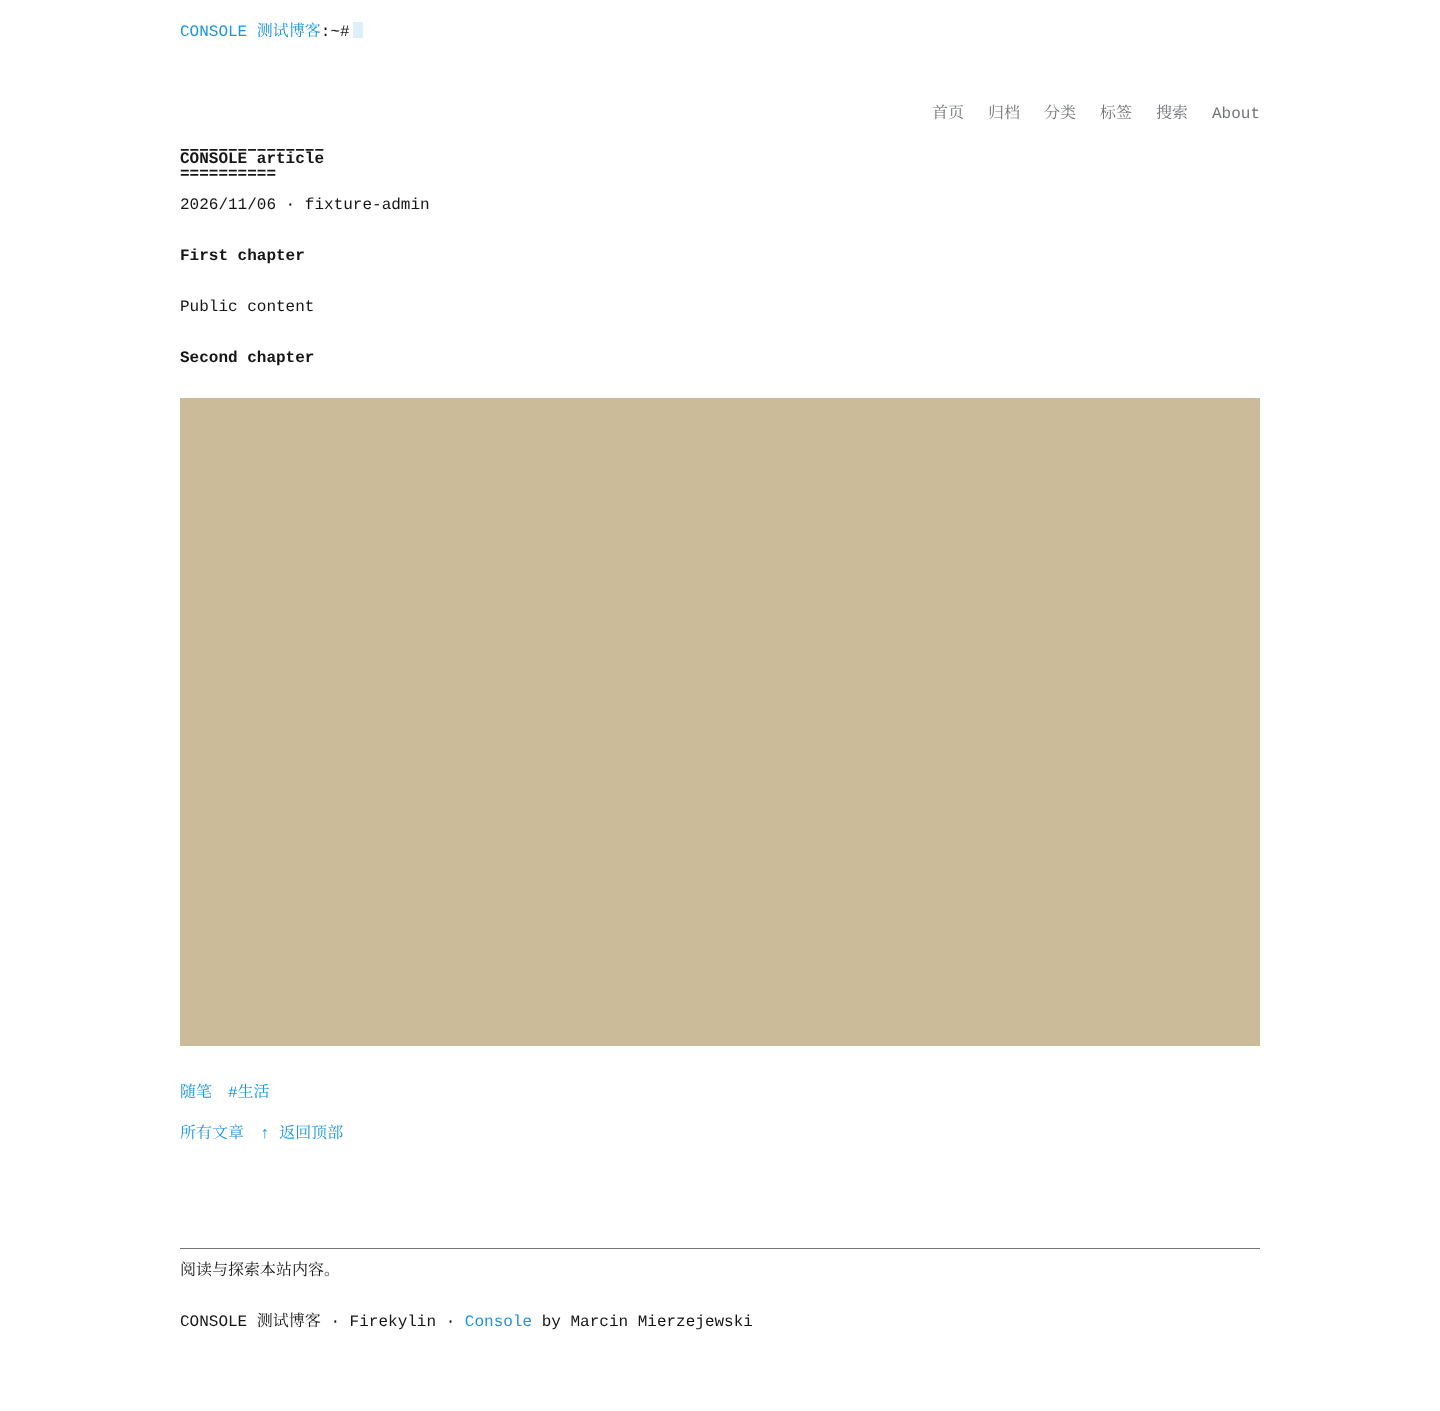
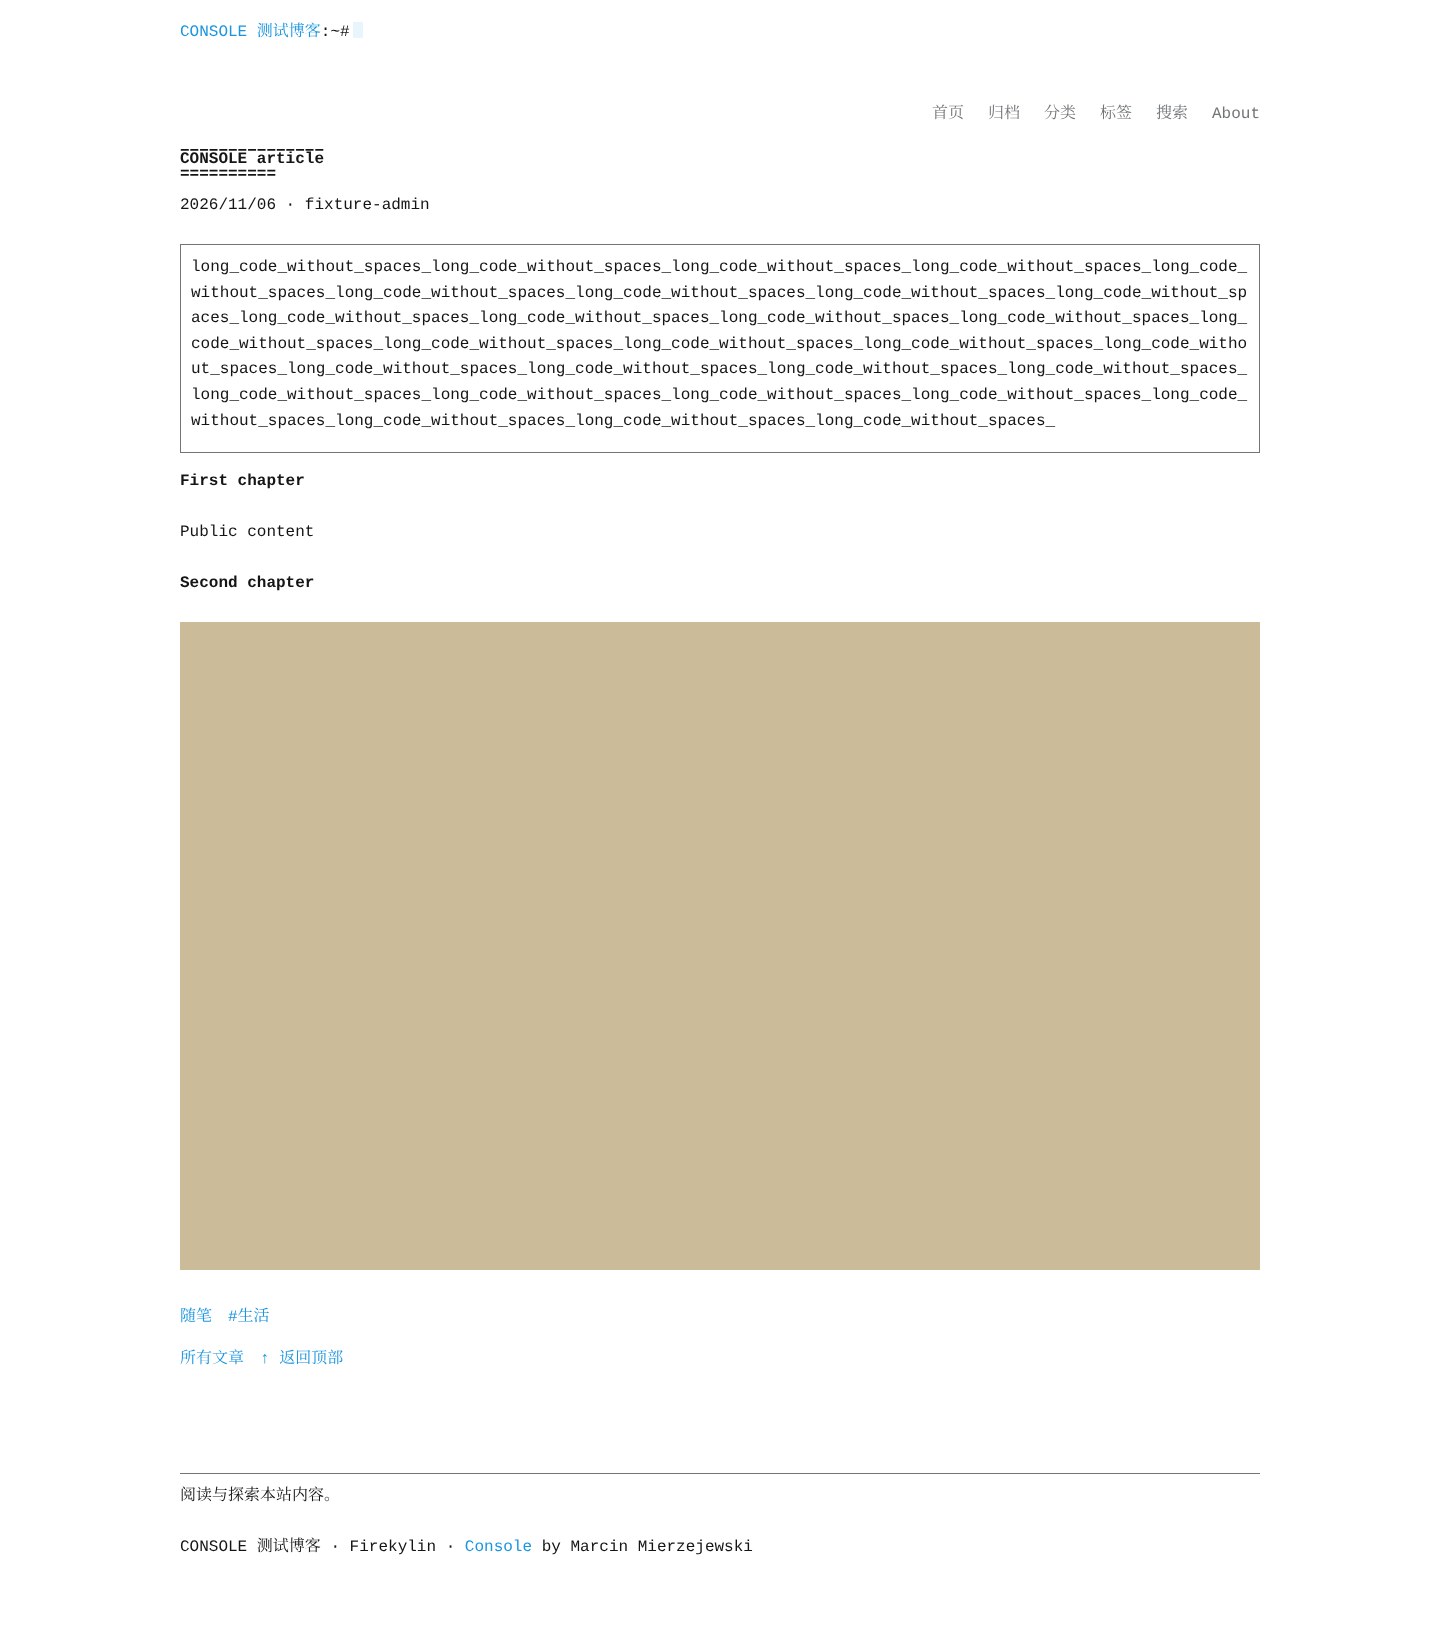
fix: render native attachment media and contain long code

diff --git a/test/console.test.js b/test/console.test.js
@@ -4,3 +4,5 @@ const {render,pages}=require('./port-fixture');
 for(const page of pages)test('Console '+page+' renders populated and empty Widgets',async()=>{for(const empty of [false,true]){const html=await render('console',page,{empty});assert.match(html,/Console/);assert(!html.includes('undefined'));}});
 test('Console escapes titles, rejects active cover URLs, preserves protected body',async()=>{const html=await render('console','index',{hostile:true,config:{profileName:'<script>alert(1)</script>',backgroundImage:'javascript:alert(1)'}});assert(!html.includes('<img src=x onerror'));assert.match(html,/&lt;img/);assert(!html.includes('src="javascript:'));assert.match(await render('console','post',{protected:true}),/protectPassword/);});
 test('Console delegates comments and keeps search filters in pagination',async()=>{assert(!(await render('console','post',{comments:false})).includes('id="comments"'));const html=await render('console','search',{request:'/search.html?keyword=a%26b'});assert.match(html,/keyword=a%26b&amp;page=2/);});
+
+test('console renders attachment media and rejects active file URLs',async()=>{const {context}=require('./port-fixture');const {Eta}=require('eta');const path=require('node:path');for(const [mime,element] of [['image/png','img'],['audio/mpeg','audio'],['video/mp4','video'],['application/pdf',null]]){const ctx=context('console','attachment');const archive=await ctx.widget('Widget_Archive');archive.stack[0].options={attachment:{mime,url:'/uploads/file',name:'Download file'}};const html=await new Eta({views:path.join(__dirname,'../packages/console'),varName:'firekylin'}).renderAsync('attachment',ctx);assert.match(html,/href="\/uploads\/file" download/);if(element)assert(html.includes('<'+element+' '));}const ctx=context('console','attachment');(await ctx.widget('Widget_Archive')).stack[0].options={attachment:{mime:'image/png',url:'javascript:alert(1)'}};const html=await new Eta({views:path.join(__dirname,'../packages/console'),varName:'firekylin'}).renderAsync('attachment',ctx);assert(!html.includes('javascript:'));});

diff --git a/packages/console/res/css/theme.css b/packages/console/res/css/theme.css
@@ -291,3 +291,6 @@ figure {
 
 /* Native Firekylin integration */
 body{overflow-wrap:anywhere}.terminal-menu ul{flex-wrap:wrap;gap:.5rem}.terminal-menu li{margin-right:1rem}.terminal-nav{gap:1rem;flex-wrap:wrap}.terminal-logo{min-width:0}img{height:auto}iframe,video{max-width:100%}.prose pre,.prose table{max-width:100%;overflow:auto}.post-actions,.tags{display:flex;gap:1rem;flex-wrap:wrap;margin:1rem 0}.pagination{display:flex;justify-content:space-between;margin:2rem 0}.skip{position:absolute;top:-100px}.skip:focus{top:0}input,button{font:inherit;max-width:100%;box-sizing:border-box}.posts-list .entry{margin-bottom:2rem}.footer{color:var(--font-color)}:focus-visible{outline:2px solid var(--primary-color);outline-offset:3px}@media(prefers-reduced-motion:reduce){.terminal-prompt:after{animation:none}}@media(max-width:850px){.posts-list .date{display:block;position:static;width:auto;font-weight:normal;font-size:.9em}}
+
+/* Native code and attachment containment. */
+.prose pre{max-width:100%;overflow-x:auto}.attachment-media img,.attachment-media audio,.attachment-media video{max-width:100%}
